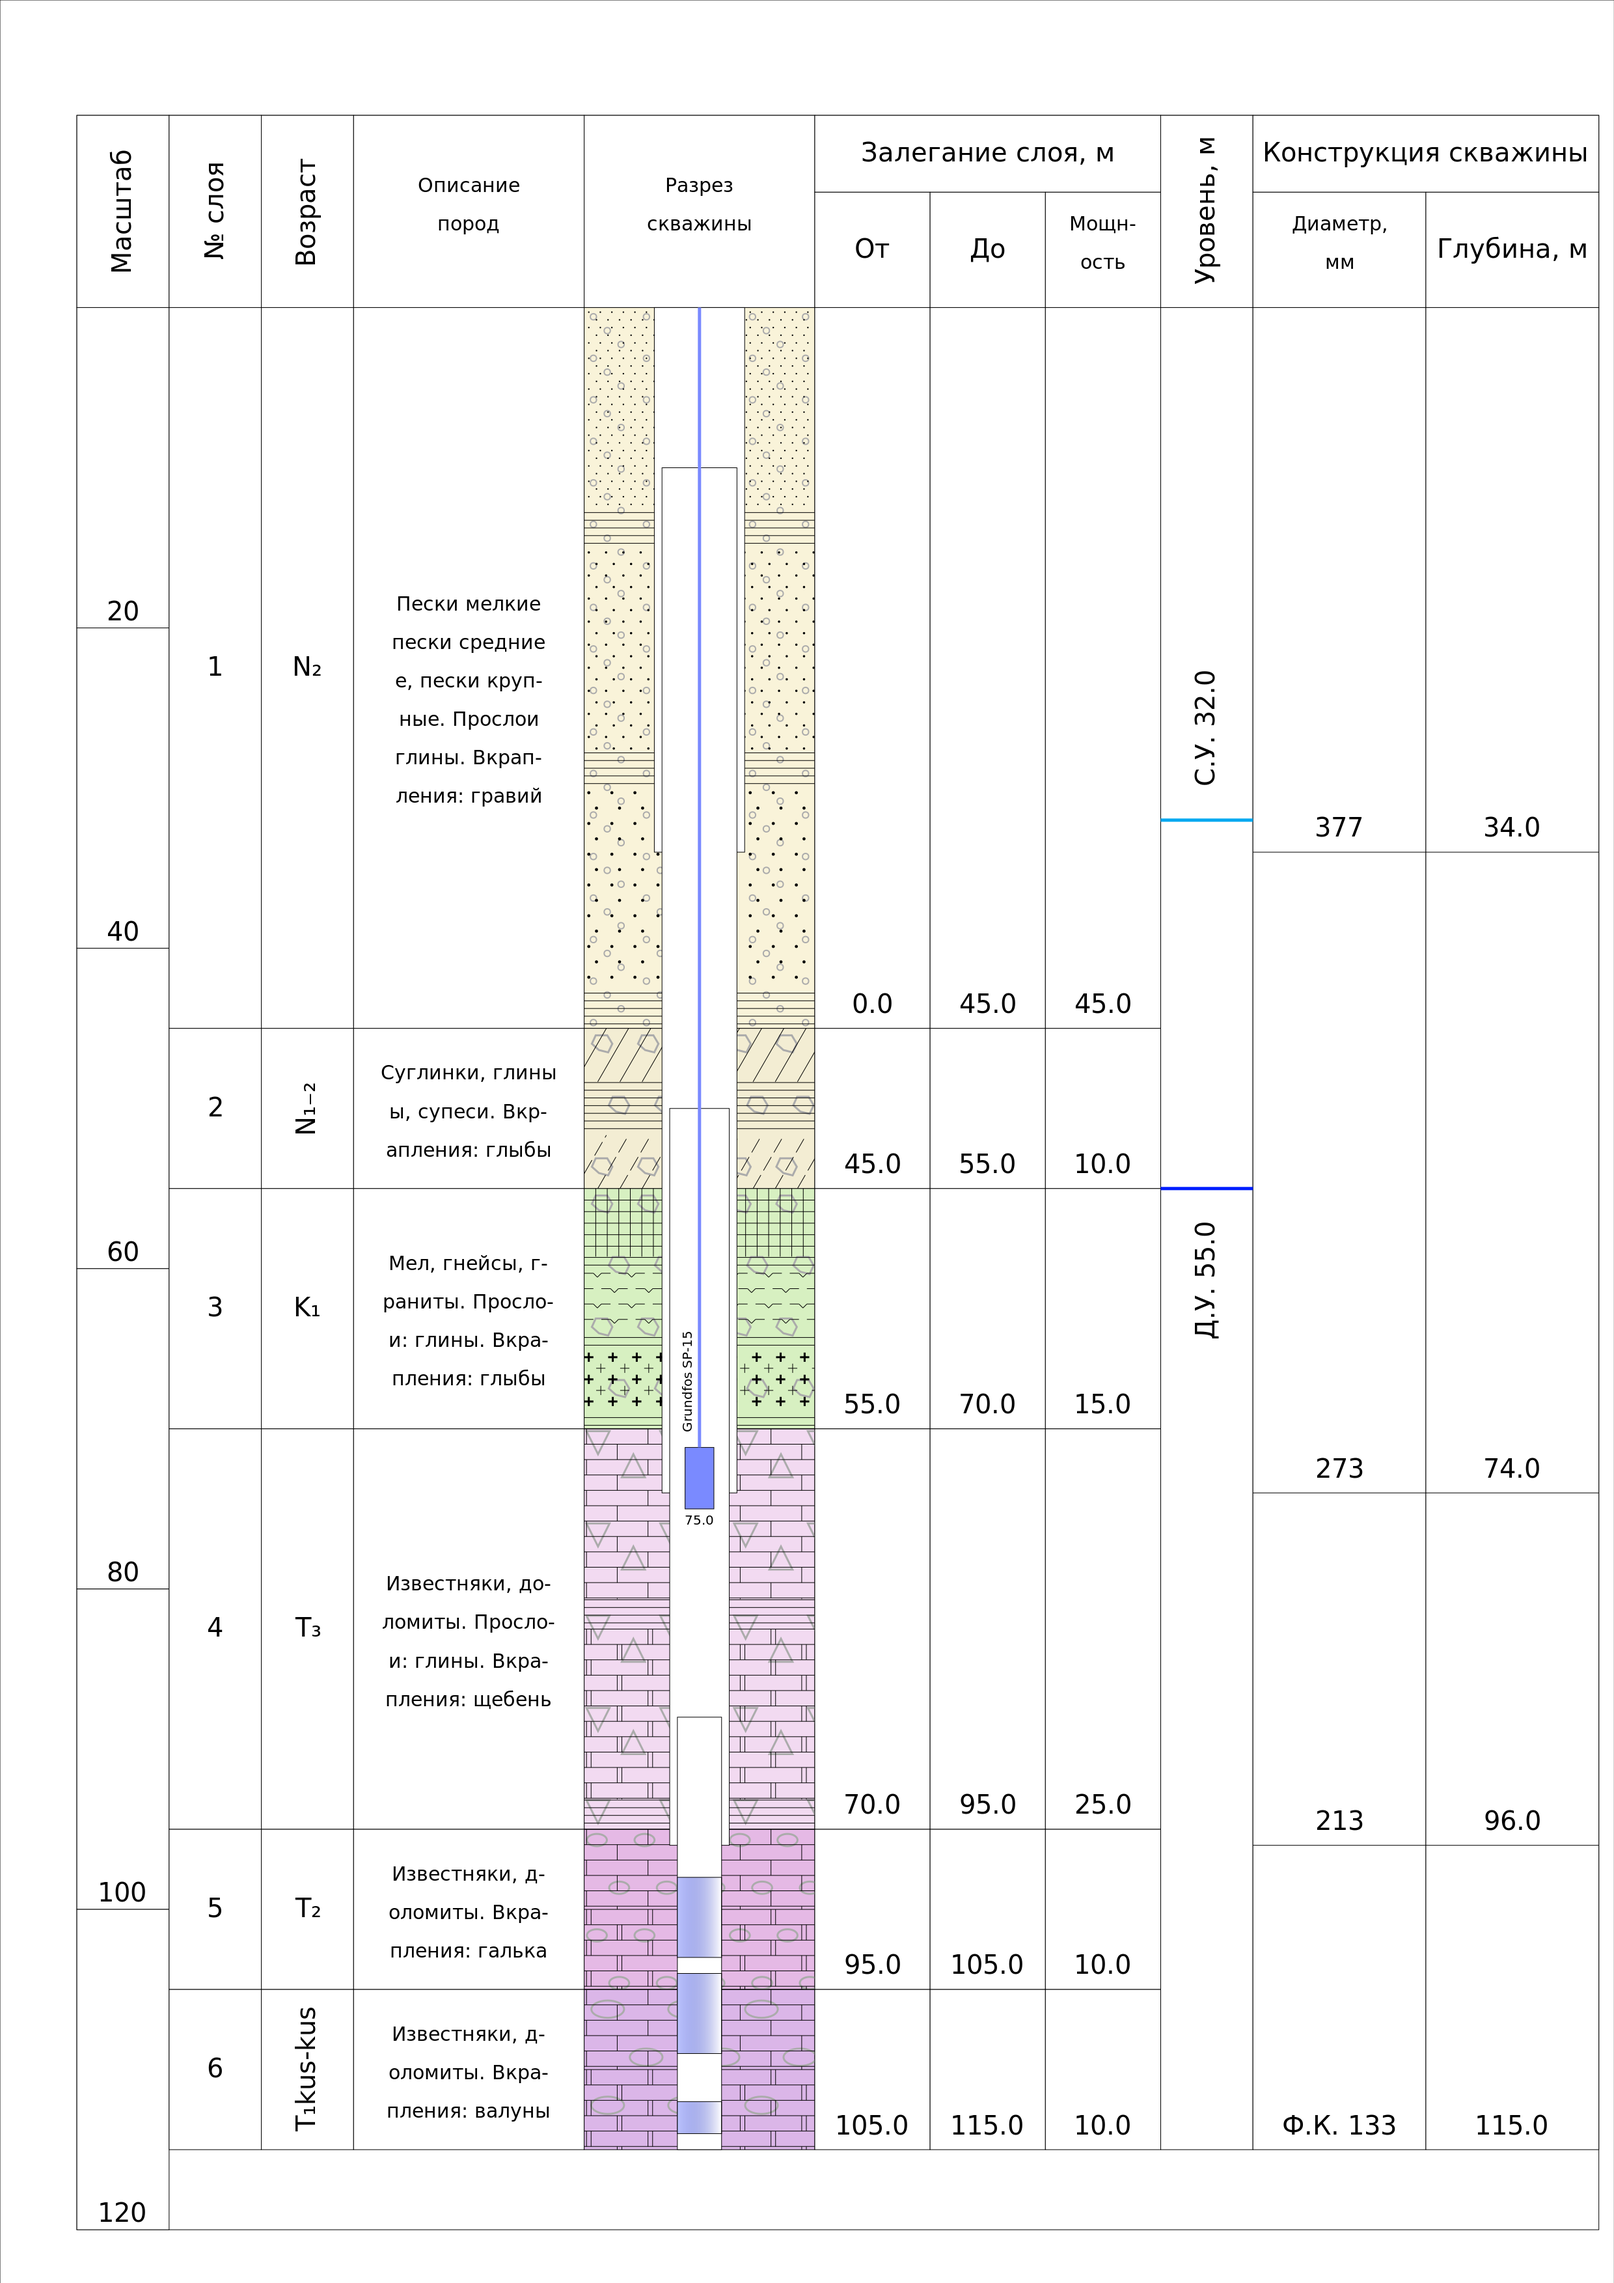
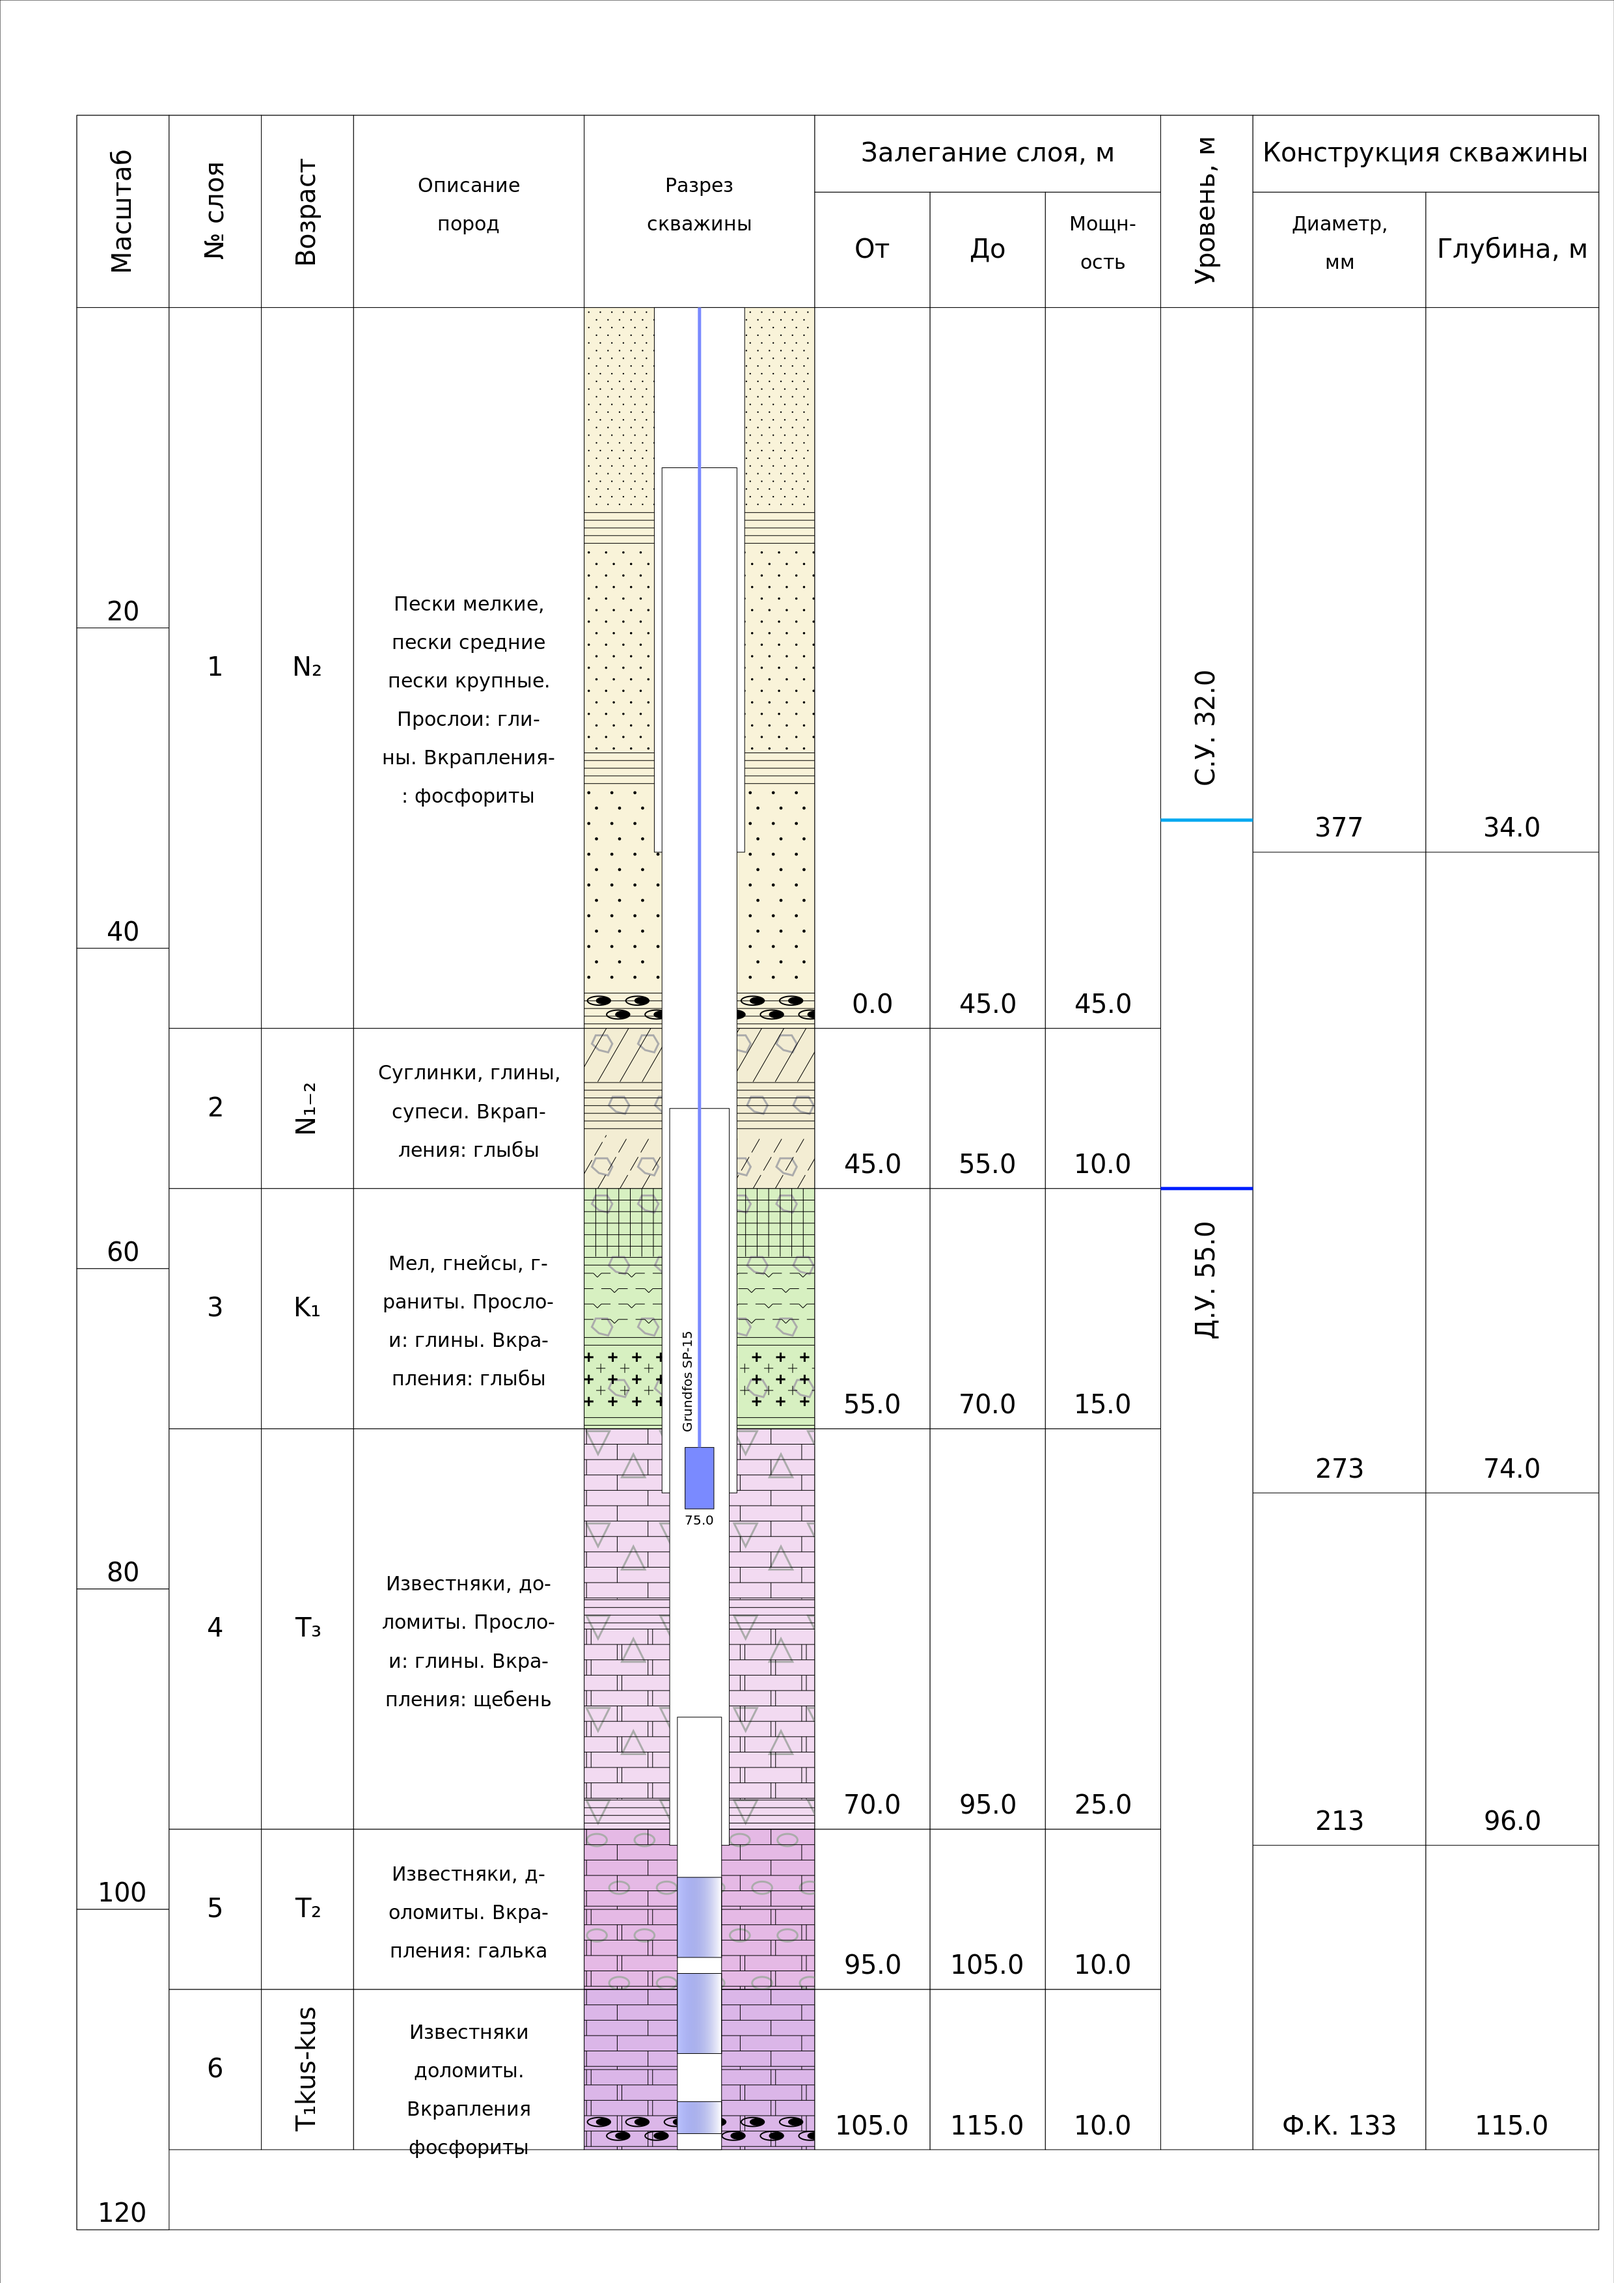
add phosphorites inclusion

diff --git a/drawing/inclusion.py b/drawing/inclusion.py
@@ -18,6 +18,8 @@ def inclus(d, x, y, width, height, inclusions):
             gravels(d, x, y, width, height)
         if elem == "гравий":
             grits(d, x, y, width, height)
+        if elem == "фосфориты":
+            phosphorites(d, x, y, width, height)
 
 
 # единичная глыба
@@ -249,5 +251,58 @@ def grits(d, x, y, width, height):
             i += 1
         else:
             delta -= 36 * size
+            i = 1
+        y_start -= delta_y
+
+
+# единичный фосфорит
+def phosphorite(x_start, y_start, size):
+    size = size * koef
+    x_1 = 15
+    y_1 = 11 * x_1 / 28.4
+    c = draw.Ellipse(
+        x_start,
+        y_start,
+        x_1 * size,
+        y_1 * size,
+        fill="none",
+        stroke="black",
+        stroke_width=2,
+    )
+    b = draw.Ellipse(
+        x_start + 5.6 * size,
+        y_start,
+        (17.2 * x_1 / 28.4) * size,
+        (8.4 * y_1 / 11) * size,
+        fill="black",
+        stroke="black",
+        stroke_width=1,
+    )
+    return c, b
+
+
+# фосфориты
+def phosphorites(d, x, y, width, height):
+    # размер
+    size = 1 / 10
+    # смещение по горизонтали, вертикали, изменение смещения по горизонтали
+    delta_x = 50 * size * koef
+    delta_y = 18 * size * koef
+    delta = 0.5
+    i = 1
+    # стартовые значения
+    y_start = (y - height) * koef + 2 * delta_y
+    while y_start > (y - height + 11 * size / 2) * koef:
+        x_start = (x + delta + 28.4 * size / 2) * koef
+        while x_start < (width + x) * koef:
+            c, b = phosphorite(x_start, y_start, size)
+            d.append(c)
+            d.append(b)
+            x_start += delta_x
+        if i == 1:
+            delta += delta_x / (2 * koef)
+            i += 1
+        else:
+            delta -= delta_x / (2 * koef)
             i = 1
         y_start -= delta_y

diff --git a/drawing/fixtures.py b/drawing/fixtures.py
@@ -69,7 +69,7 @@ well_data_2 = {
             "thick": 45.0,
             "sediments": ("пески мелкие", "пески средние", "пески крупные"),
             "interlayers": ("глины",),
-            "inclusions": ("гравий",),
+            "inclusions": ("фосфориты",),
         },
         2: {
             "id": 2,
@@ -115,7 +115,7 @@ well_data_2 = {
                 "известняки",
                 "доломиты",
             ),
-            "inclusions": ("валуны",),
+            "inclusions": ("фосфориты",),
         },
     },
     # данные по скважине

diff --git a/drawing/main.py b/drawing/main.py
@@ -202,7 +202,9 @@ def rectangle(d, x, y, x1, y1, text, direction):
             )
             # коррекция конца строки
             if str(text[text_end_step + 1]) == ",":
-                insert = str(text[text_start_step : text_end_step + 1])
+                text_end_step += 2
+                insert = str(text[text_start_step:text_end_step])
+                text_start_step += 2
             elif str(text[text_end_step]) == " ":
                 insert = str(text[text_start_step : text_end_step - 1])
             elif str(text[text_end_step - 1]) == " ":
